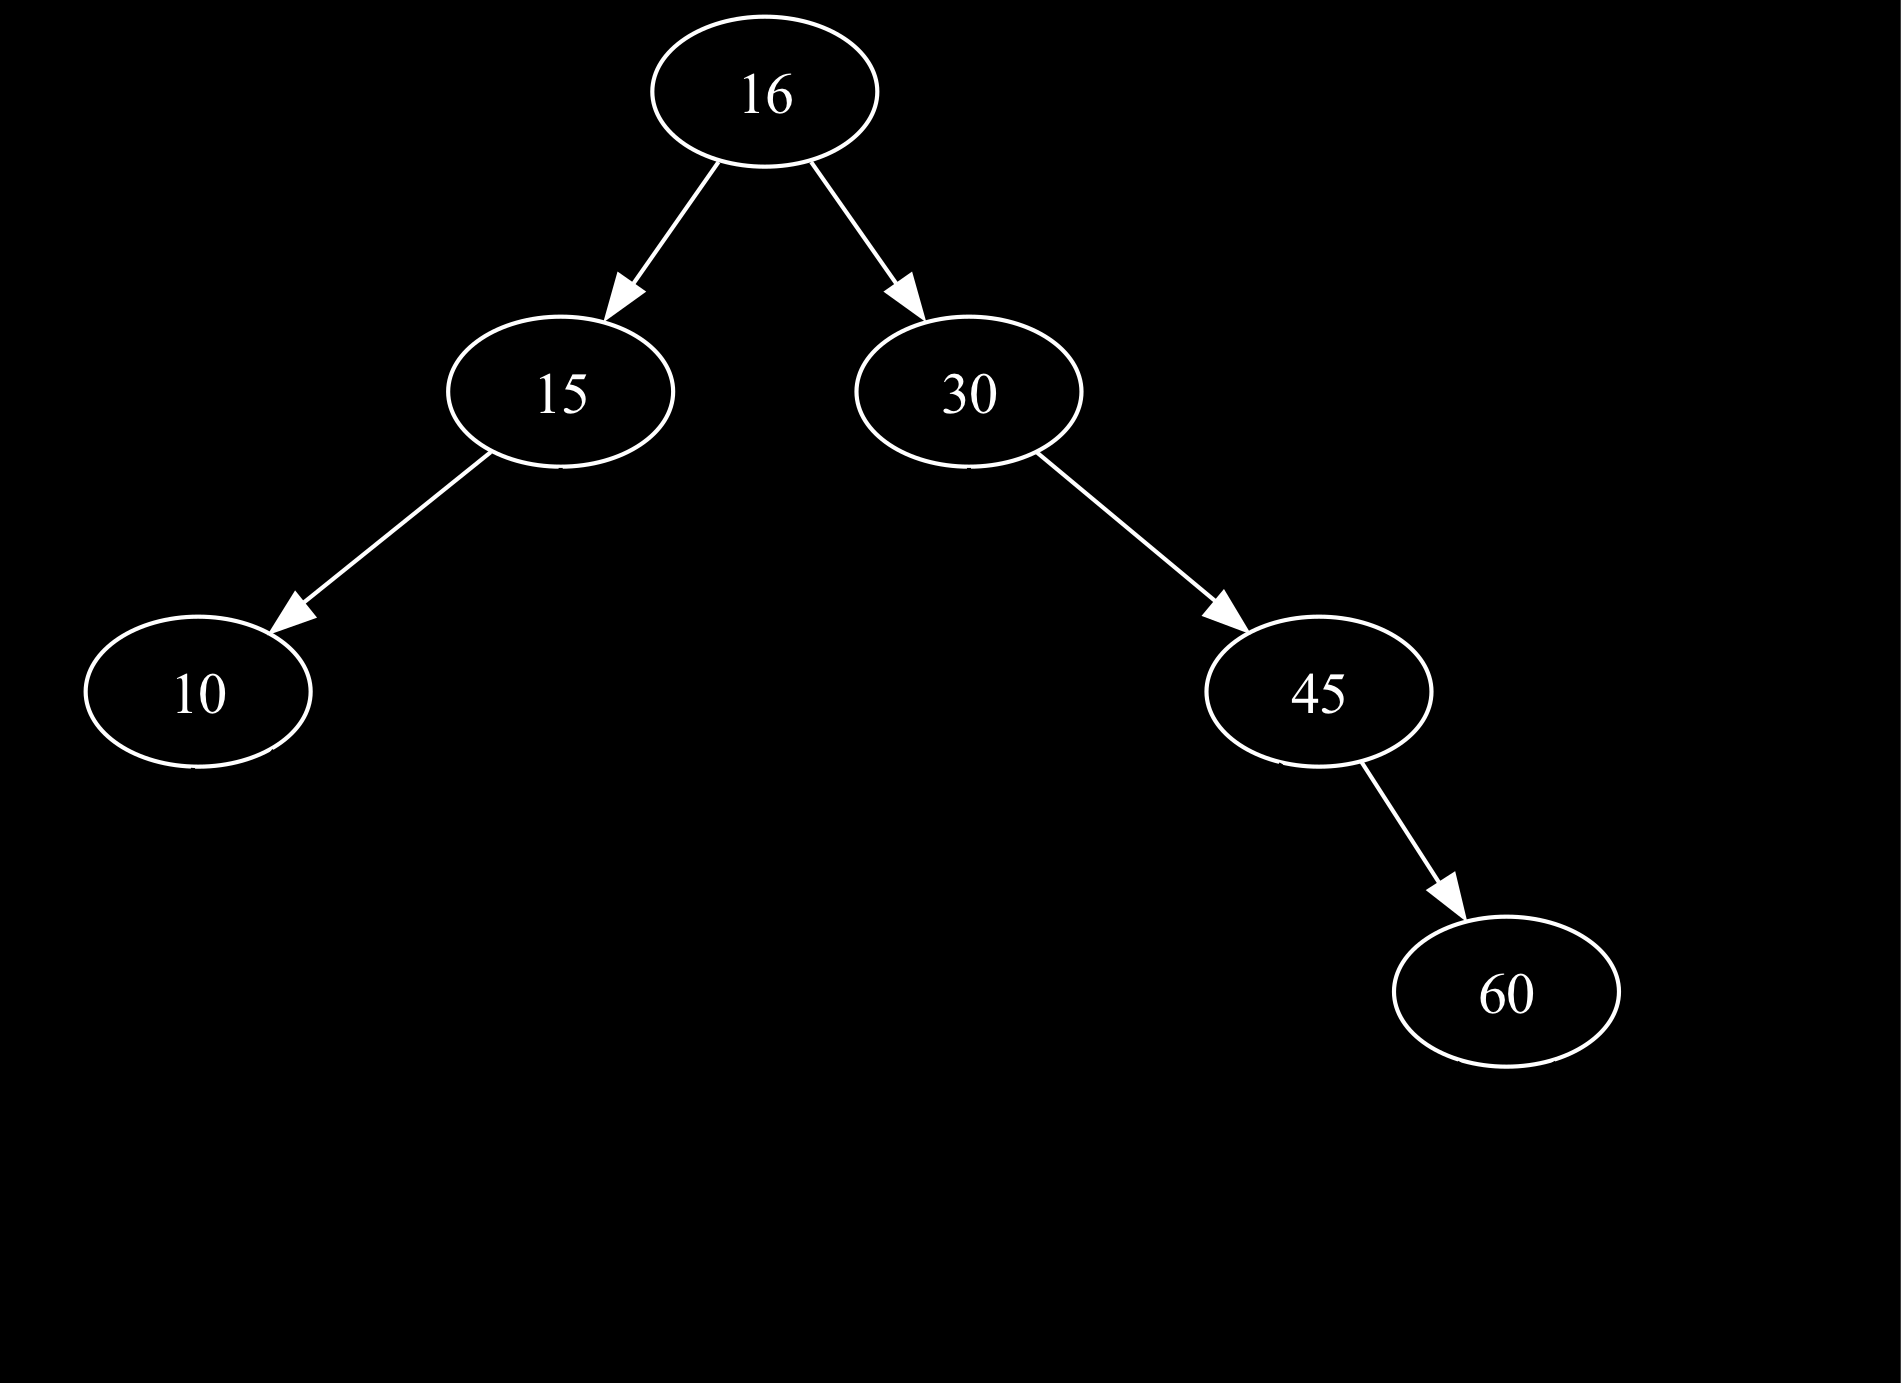
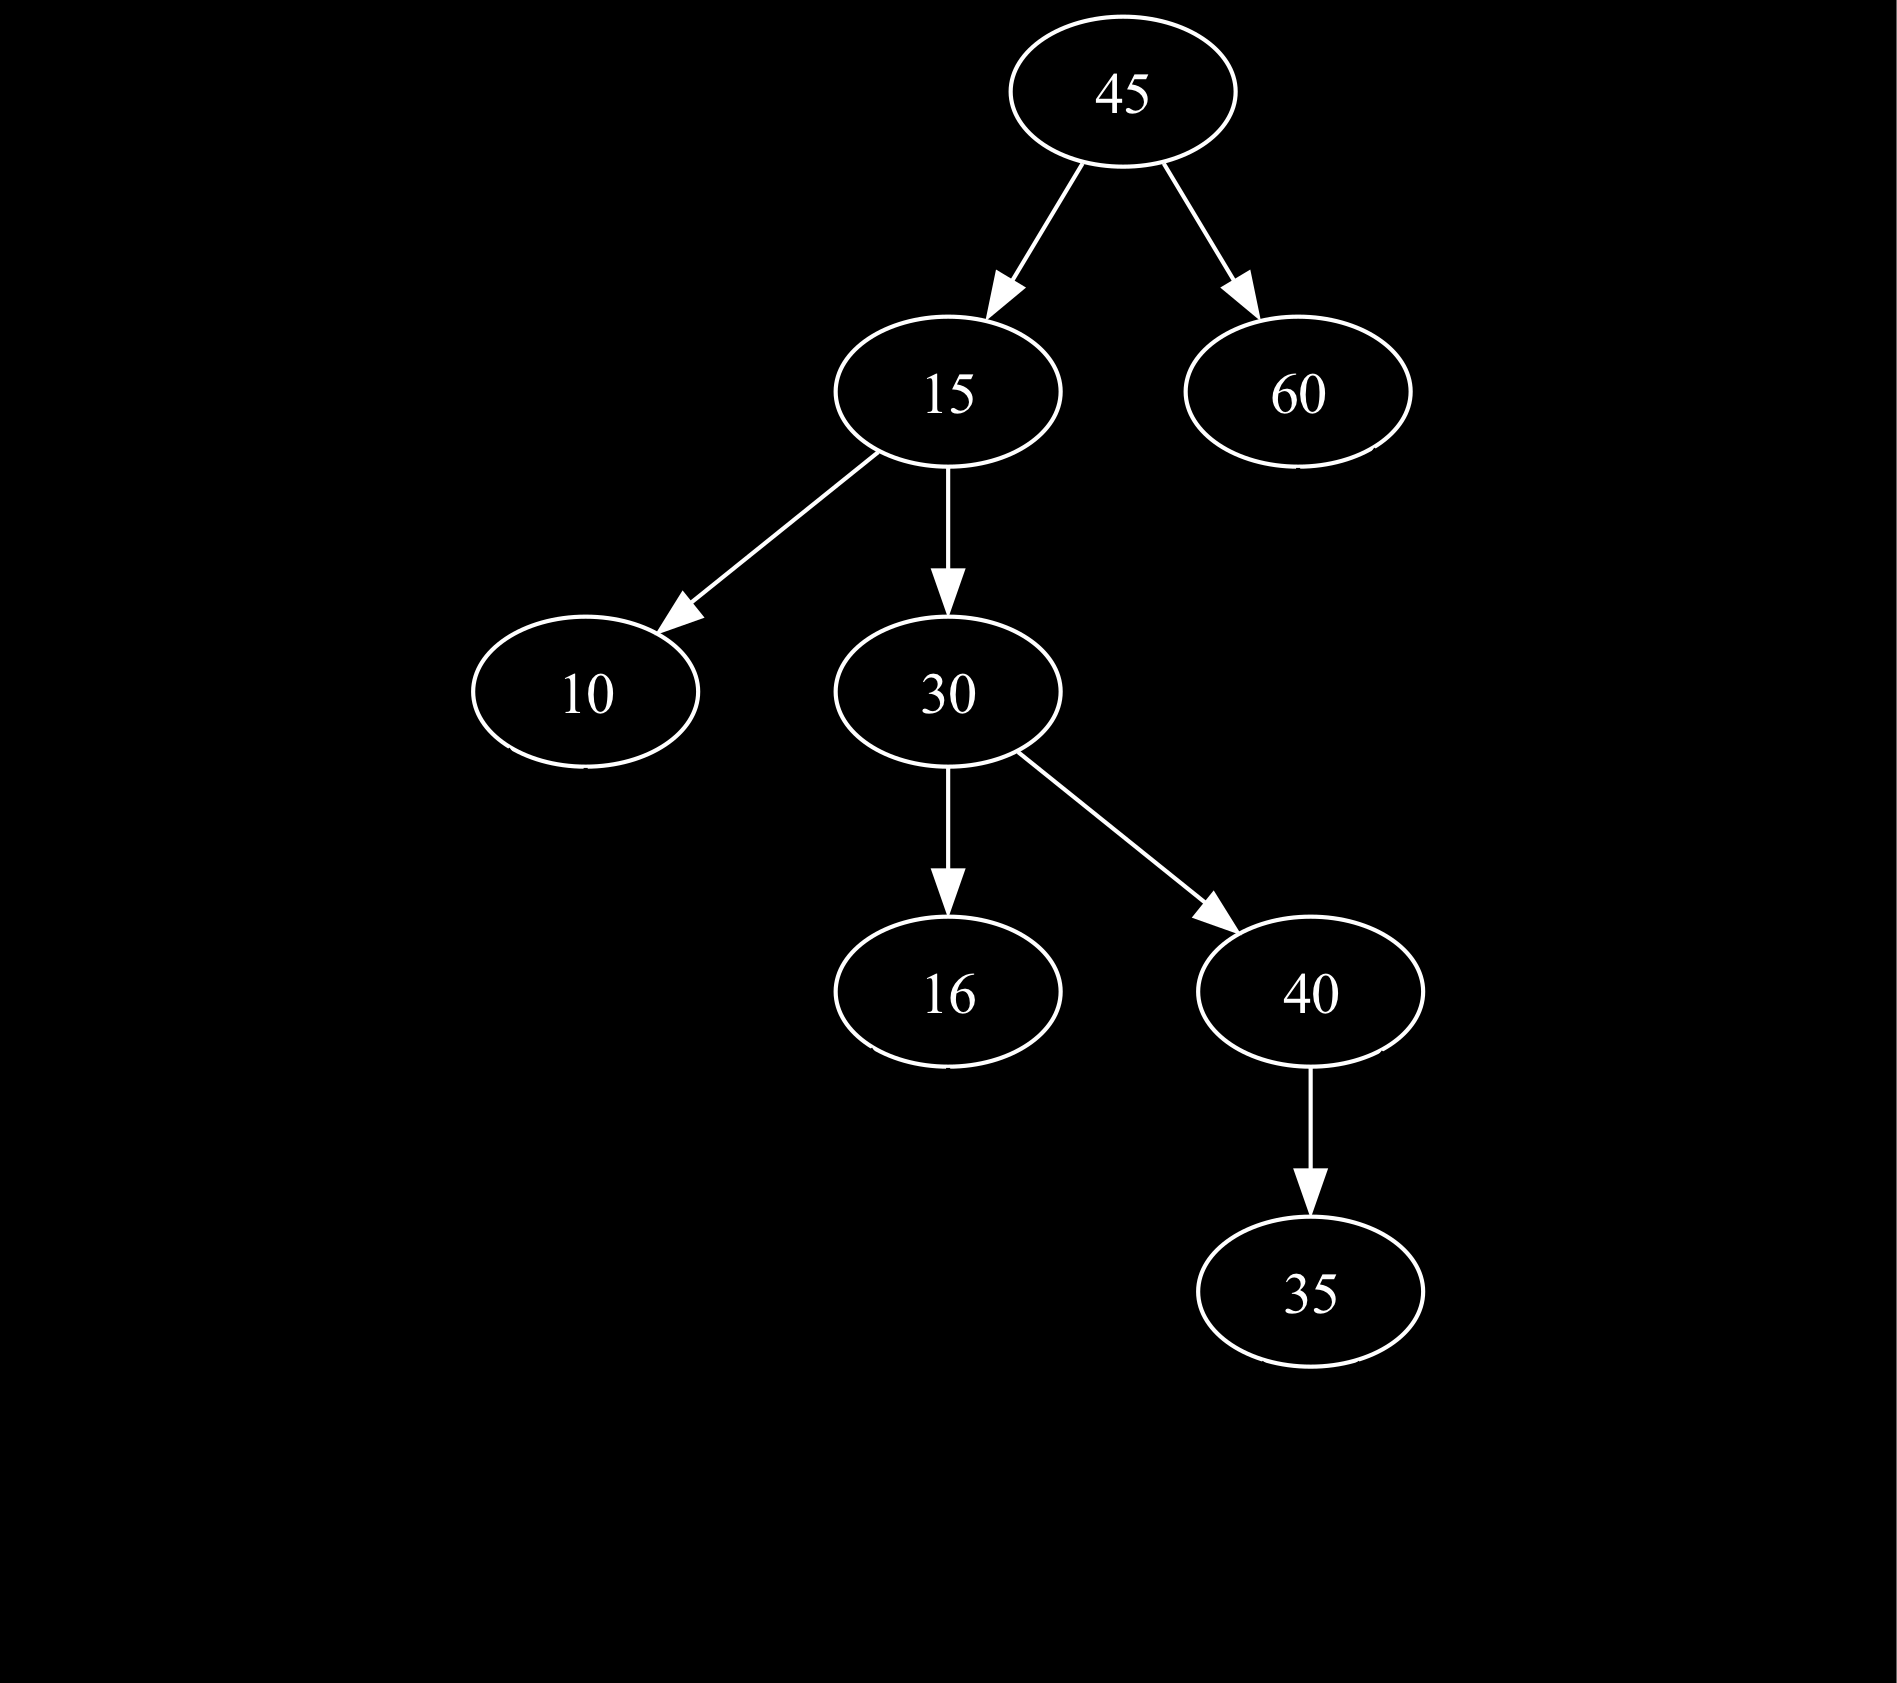
so close. So fucking close.

diff --git a/TreeItems/SplayTree.py b/TreeItems/SplayTree.py
@@ -10,52 +10,26 @@ class Node():
         return self.key
 
 # ----------------------------------------------------------------
-# takes in the root node to the rotated right and returns the new tree
-# zig
-def right_rotate(node):
-    root = node.left
-    node.left = root.right
-    root.right = node
-    return root
 
-# takes in the root node to be rotated left and returns the new tree
-# zig
 def left_rotate(node):
-    root = node.right
-    node.right = root.left
-    root.left = node
-    return root
+    new_root = node.right
+    node.right = new_root.left
+    new_root.left = node
+    return new_root
 
-# def right_zigzig(node):
-#     node.left = right_rotate(node.right)
-#     return right_rotate(node)
+def right_rotate(node):
+    new_root = node.left
+    node.left = new_root.right
+    new_root.right = node
+    return new_root
 
-# def left_zigzig(node):
-#     node.right = left_rotate(node.right)
-#     return left_rotate(node)
-
-# def left_zigzag(node):
-#     node.left = left_rotate(node.left)
-#     return right_rotate(node)
-
-# def right_zigzag(node):
-#     node.right = right_rotate(node.right)
-#     return left_rotate(node)
-#----------------------------------------------------------------
-
-# Zig-Zig: right_zigzig
 def right_zigzig(node):
-    child = node.left
-    node.left = child.right
-    child.right = right_rotate(node)
-    return right_rotate(child)
+    root = right_rotate(node)
+    return right_rotate(root)
 
-# Zig-Zig: left_zigzig
 def left_zigzig(node):
-    child = node.right
-    node.right = child.left
-    child.left = left_rotate(node)
-    return left_rotate(child)
+    root = left_rotate(node)
+    return left_rotate(root)
 
 # Zig-Zag: left_zigzag
 def left_zigzag(node):
@@ -69,65 +43,46 @@ def right_zigzag(node):
     node.right = right_rotate(child)
     return left_rotate(node)
 
-# I have spent an unholy amount of time trying to figure out this function.
-# this should not have taken *nearly* as long as it has and I am honestly contemplating three terrible options
-# The first choice--which I'll add in here--is to make the function so that it finds the point where it drops out and then
-# reruns splay in its entirety. This function will be inefficient for the reason that it will run through the tree multiple times
-# The second option is to somehow make the function such that it will go until it reaches an endpoint and then splay that last known node.
-# The third and final option is to scratch the idea of splaying an unknown node altogether and implement search using a BST approach.
-# The first and third are the laziest options.
+# ----------------------------------------------------------------
 
 def splay(root, key):
-    if root is None:
+    if not root:
         return None
-    # Check if the key is in the left subtree
     if key < root.key:
-        if root.left is None:
+        if not root.left:
             return root
-        # Case (a): x is the root's child
-        if key < root.left.key:
+        if key < root.left.key and root.left.left and root.left.left.key == key:
             root.left.left = splay(root.left.left, key)
-            root = right_rotate(root)
-        # Case (c): x is a left-right child
-        elif key > root.left.key:
+            if root.left.left:
+                root = right_zigzig(root)
+        elif key > root.left.key: # and root.left.right and root.left.right.key == key:
             root.left.right = splay(root.left.right, key)
-            if root.left.right is not None:
-                root.left = left_rotate(root.left)
-        return root if root.left is None else right_rotate(root)
-    # Check if the key is in the right subtree
+            if root.left.right:
+                 root = left_zigzag(root)
+        else:
+            root.left = splay(root.left, key)
+            root = right_rotate(root)
     elif key > root.key:
-        if root.right is None:
+        if not root.right:
             return root
-        # Case (a): x is the root's child
-        if key < root.right.key:
-            root.right.left = splay(root.right.left, key)
-            if root.right.left is not None:
-                root.right = right_rotate(root.right)
-        # Case (c): x is a right-left child
-        elif key > root.right.key:
+        if key > root.right.key and root.right.right and root.right.right.key == key:
             root.right.right = splay(root.right.right, key)
+            if root.right.right:
+                root = left_zigzig(root)
+        elif key < root.right.key: #and root.right.left and root.right.left.key == key:
+            root.right.left = splay(root.right.left, key)
+            if root.right.left:
+                root = right_zigzag(root)
+        else:
+            root.left = splay(root.left, key)
             root = left_rotate(root)
-        return root if root.right is None else left_rotate(root)
-    # Key is found at the current root, return the root
     return root
 
-def search(tree, key):
-    tree = splay(tree, key)
-    return tree
-
-def search_bst(tree, key):
-    if not tree:
-        raise ValueError("Key not foundin tree")
-    if tree.key < key:
-        return search_bst(tree.right, key)
-    elif tree.key > key:
-        return search_bst(tree.left, key)
-    else:
-        return tree
+# ----------------------------------------------------------------
 
 # this is the way the professor showed us, however I think it doesn't do a great job of maintaining the recent
 # items at the top of the tree, defeating the purpose of the splay.
-def insert1(tree, key):
+def insertAfter(tree, key):
     new_tree = splay(tree, key)
     new_node = Node(key, None, None)
     if new_tree.key == key:
@@ -143,28 +98,44 @@ def insert1(tree, key):
         new_node.right = new_tree
     return new_node
 
-# BST version. Probably a little slower than the version above but I think it actually does a better job of maintaining the most recent items
-# at the top of the tree 🤔
-def insert2(tree, key):
-    if tree == None or tree.key == key:
-        raise ValueError("Something went wrong")
+# performs the insertion for the BST insertion function
+def performInsert(tree, key):
+    if tree == None or tree.key == key:          # remove the == piece to fix below *** fix
+        raise ValueError("Something went wrong") # adjust such that it just splays this item
     elif key < tree.key:
         if tree.left:
-            tree.left = insert2(tree.left, key)
+            tree.left = performInsert(tree.left, key)
         else:
-             tree.left = Node(key, None, None)
+            tree.left = Node(key, None, None)
     elif key > tree.key:
         if tree.right:
-            tree.right = insert2(tree.right, key)
+            tree.right = performInsert(tree.right, key)
         else:
             tree.right = Node(key, None, None)
+    return tree
 
-    return splay(tree, key)
+# BST version. Probably a little slower than the version above but I think it actually does a better job of maintaining the most recent items
+# at the top of the tree 🤔
+def insertBST(tree, key):
+    tree = performInsert(tree, key) # performs the actual insertion of the new node
+    return splay(tree, key)         # returns the splayed tree with the new node at the root
 
-
+# uses deletion method put together by Justin
+# splays right tree and uses it
 def delete(tree, key):
-    return None
+    mod_tree = splay(tree, key)
+    if not mod_tree.left:
+        return mod_tree.right
+    elif not mod_tree.right:
+        return mod_tree.left
+    else:
+        child_tree = splay(tree.right, key)
+        child_tree.left = tree.left
+        return child_tree
 
+def search(tree, key):
+    new_tree = splay(tree, key)
+    return new_tree
 
 # these three functions will return a list of nodes and I'll determine later how I want to parse that list
 # may consider adding balance to the tree to see more accurate distance results

diff --git a/Tests.py b/Tests.py
@@ -42,6 +42,34 @@ example_tree = load_tree("""{"k": 30, "l": {"k": 10, "l": null, "r": null},
                                                                    "l": {"k": 55, "l": null, 
                                                                                   "r": {"k": 57, "l": null, "r": null}},
                                                                    "r": null}}}""")
+
+example_tree2 = load_tree("""{"k": 30, "l": {"k": 10, "l": null, "r": null}, 
+                                      "r": {"k": 50, "l": null, 
+                                                     "r": {"k": 59, 
+                                                                   "l": {"k": 57, "l": {"k": 55, "l": null, "r": null}, 
+                                                                                  "r": null},
+                                                                   "r": {"k": 60, "l": null, "r": null}}}}""")
+
+example_tree3 = load_tree("""{"k": 59, 
+                                    "l": {"k": 57, 
+                                                "l": {"k": 50, 
+                                                            "l": {"k": 30, 
+                                                                        "l": {"k": 10, "l": null, "r": null}, 
+                                                                        "r": null},
+                                                            "r": {"k": 55, "l": null, "r": null}
+                                                }, 
+                                                "r": null},
+                                    "r": {"k": 60, "l": null, "r": null}
+                            }
+                        """)
+
+example_tree4 = load_tree("""{"k": 30, "l": {"k": 10, "l": null, "r": null}, 
+                                "r": {"k": 59, 
+                                   "l": {"k": 50, "l": null, "r": {"k": 57, "l": {"k": 55, "l": null, "r": null}, "r": null}},
+                                   "r": {"k": 60, "l": null, "r": null}}
+                          }""")
+
+
 def printTrees():
     construct_graph(tree).write_png('Images/tree.png')
     construct_graph(tree2).write_png('Images/tree2.png')
@@ -50,6 +78,9 @@ def printTrees():
     construct_graph(tree5).write_png('Images/tree5.png')
     construct_graph(tree6).write_png('Images/tree6.png')
     construct_graph(example_tree).write_png('Images/example_tree.png')
+    construct_graph(example_tree2).write_png('Images/example_tree2.png')
+    construct_graph(example_tree3).write_png('Images/example_tree3.png')
+    construct_graph(example_tree4).write_png('Images/example_tree4.png')
 
 def zigzig(tree):
     tree3 = right_zigzig(tree)
@@ -79,42 +110,61 @@ def searchTestNotFound(tree):
     construct_graph(new_tree).write_png('Images/modified_search_nf.png')
 
 def insertTreeTest(tree):
-    new_tree = insert1(tree, 30)
-    construct_graph(new_tree).write_png('Images/modified_insert_tree.png')
-    new_tree = insert1(new_tree, 45)
-    construct_graph(new_tree).write_png('Images/modified_insert_tree.png')
-    new_tree = insert1(new_tree, 10)
-    construct_graph(new_tree).write_png('Images/modified_insert_tree.png')
-    new_tree = insert1(new_tree, 60)
-    construct_graph(new_tree).write_png('Images/modified_insert_tree.png')
-    new_tree = insert1(new_tree, 16)
+    new_tree = insertBST(tree, 30)
+    new_tree = insertBST(new_tree, 45)
+    new_tree = insertBST(new_tree, 10)
+    new_tree = insertBST(new_tree, 60)
+    new_tree = insertBST(new_tree, 16)
+    new_tree = insertBST(new_tree, 40)
+    new_tree = insertBST(new_tree, 35)
+
     construct_graph(new_tree).write_png('Images/modified_insert_tree.png')
 
 def insertTreeTest2(tree):
-    new_tree = insert1(tree, 30)
-    new_tree = insert1(new_tree, 45)
-    new_tree = insert1(new_tree, 10)
-    new_tree = insert1(new_tree, 60)
-    new_tree = insert1(new_tree, 16)
+    new_tree = insertAfter(tree, 30)
+    new_tree = insertAfter(new_tree, 45)
+    new_tree = insertAfter(new_tree, 10)
+    new_tree = insertAfter(new_tree, 60)
+    new_tree = insertAfter(new_tree, 16)
     construct_graph(new_tree).write_png('Images/old_insert_tree.png')
 
 def insertTreeTest3():
     new_tree = copy.deepcopy(tree2)
-    new_tree = insert1(new_tree, 30)
-    new_tree = insert1(new_tree, 45)
-    new_tree = insert1(new_tree, 10)
-    new_tree = insert1(new_tree, 60)
-    new_tree = insert1(new_tree, 16)
+    new_tree = insertAfter(new_tree, 30)
+    new_tree = insertAfter(new_tree, 45)
+    new_tree = insertAfter(new_tree, 10)
+    new_tree = insertAfter(new_tree, 60)
+    new_tree = insertAfter(new_tree, 16)
     construct_graph(new_tree).write_png('Images/insert_tree_3.png')
 
 def insertTreeTest4():
     new_tree = copy.deepcopy(tree2)
-    new_tree = insert2(new_tree, 30)
-    new_tree = insert2(new_tree, 45)
-    new_tree = insert2(new_tree, 10)
-    new_tree = insert2(new_tree, 60)
-    new_tree = insert2(new_tree, 16)
+    new_tree = insertBST(new_tree, 30)
+    new_tree = insertBST(new_tree, 45)
+    new_tree = insertBST(new_tree, 10)
+    new_tree = insertBST(new_tree, 60)
+    new_tree = insertBST(new_tree, 16)
     construct_graph(new_tree).write_png('Images/insert_tree_4.png')
+
+def deleteTreeTest():
+    modded_tree = copy.deepcopy(example_tree3)
+    print_tree = copy.deepcopy(example_tree3)
+    construct_graph(splay(print_tree, 30)).write_png('Images/checker.png')
+    modded_tree = delete(modded_tree, 30)
+    construct_graph(modded_tree).write_png('Images/delete_tree.png')
+
+def newerSplayTest():
+    tree1_ = copy.deepcopy(tree)
+    tree2_ = copy.deepcopy(tree3)
+    tree3_ = copy.deepcopy(tree6)
+
+    tree1_ = splay(tree1_, 5)
+    tree2_ = splay(tree2_, 5)
+    tree3_ = splay(tree3_, 40)
+
+    construct_graph(tree1_).write_png('Images/splayTree1.png')
+    construct_graph(tree2_).write_png('Images/splayTree2.png')
+    construct_graph(tree3_).write_png('Images/splayTree3.png')
 
 printTrees()
 #zigzig(tree3)
@@ -123,8 +173,9 @@ printTrees()
 #splayTest(example_tree)
 #searchTestFound(example_tree)
 #searchTestNotFound(example_tree)
-#insertTreeTest(tree2)
+insertTreeTest(tree2)
 #insertTreeTest2(tree2)
-insertTreeTest3() # compare result with following line
-insertTreeTest4()
-
+#insertTreeTest3() # compare result with following line
+#insertTreeTest4()
+#deleteTreeTest()
+#newerSplayTest()
